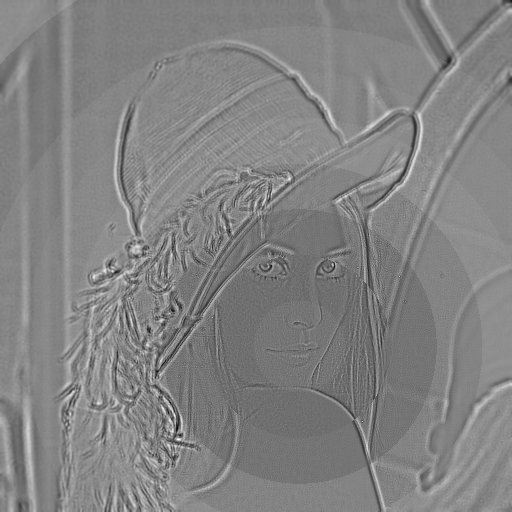
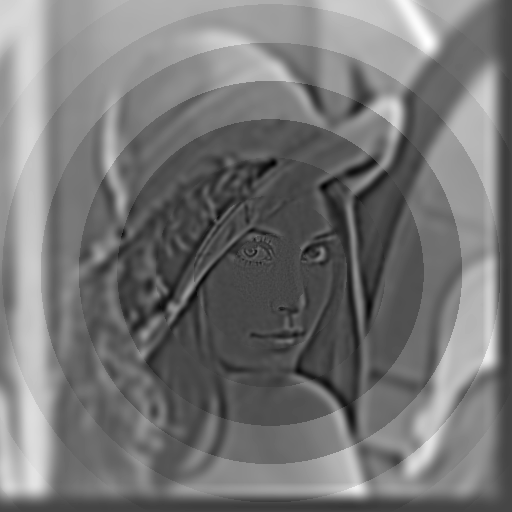
gabababa kind of works

diff --git a/visual_system/src/main.py b/visual_system/src/main.py
@@ -221,6 +221,40 @@ def apply_filters(myImg, Zones, Filters, openCV=True):
         im_out = np.array(im_out).reshape((m_height, m_width))
         
         return im_out
+    
+def gabor_filter(myImg):
+    
+    sigma  = 1
+    theta = 1
+    g_lambda = 2
+    psi = np.pi/2
+    gamma = 0.5
+
+    sigma_x = sigma
+    sigma_y = sigma/gamma
+    
+    # Boundingbox:
+    nstds = 2
+    xmax = max( abs(nstds*sigma_x * np.cos(theta)), abs(nstds*sigma_y * np.sin(theta)) )
+    ymax = max( abs(nstds*sigma_x * np.sin(theta)), abs(nstds*sigma_y * np.cos(theta)) )
+    
+    xmax = np.ceil(max(1,xmax))
+    ymax = np.ceil(max(1,ymax))
+    
+    xmin = -xmax
+    ymin = -ymax
+    
+    numPts = 51   
+    (x,y) = np.meshgrid(np.linspace(xmin, xmax, numPts), np.linspace(ymin, ymax, numPts) ) 
+    
+    # Rotation
+    x_theta =  x * np.cos(theta) + y * np.sin(theta)
+    y_theta = -x * np.sin(theta) + y * np.cos(theta)
+    gb_values = np.array(np.exp( -0.5* (x_theta**2/sigma_x**2 + y_theta**2/sigma_y**2) ) * \
+         np.cos( 2*np.pi/g_lambda*x_theta + psi ), dtype=np.float32)
+    
+    filtered = cv.filter2D(myImg.data, cv.CV_32F,gb_values)
+    return filtered
 
 def main(in_file=None):
     """Simulation of a retinal ipltant. The image can be selected, and the
@@ -230,11 +264,14 @@ def main(in_file=None):
     myImg = MyImages(in_file)
     Zones, Filters = make_zones_and_filters(myImg)
     filtered = apply_filters(myImg, Zones, Filters)
+    gabor_filtered = gabor_filter(myImg)
 
     # Show the results
     plt.imshow(filtered, "gray")
     plt.show()
-    myImg.save(filtered)
+    plt.imshow(gabor_filtered, "gray")
+    plt.show()
+    #myImg.save(filtered)
     print("Done!")
 
 
